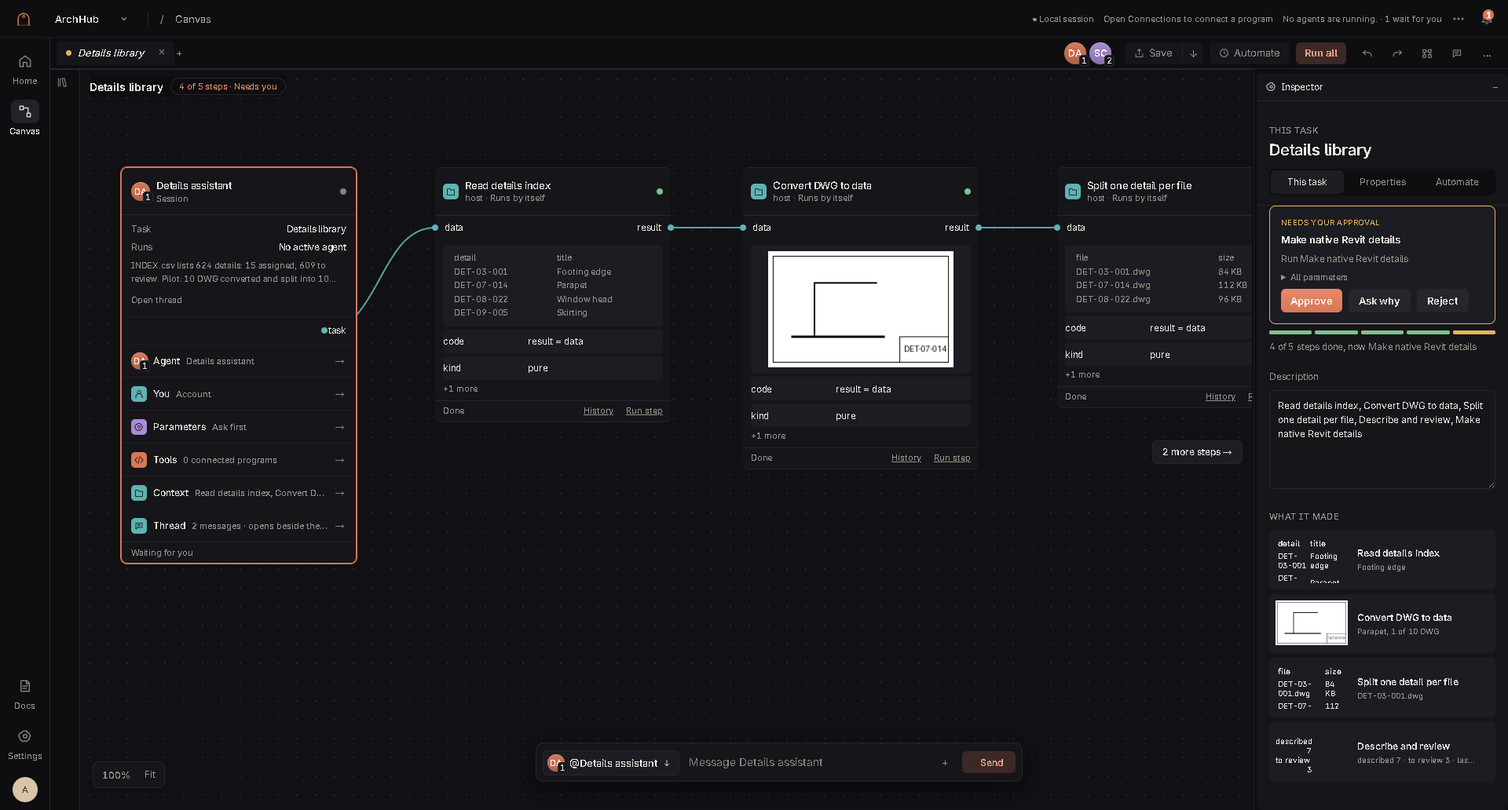
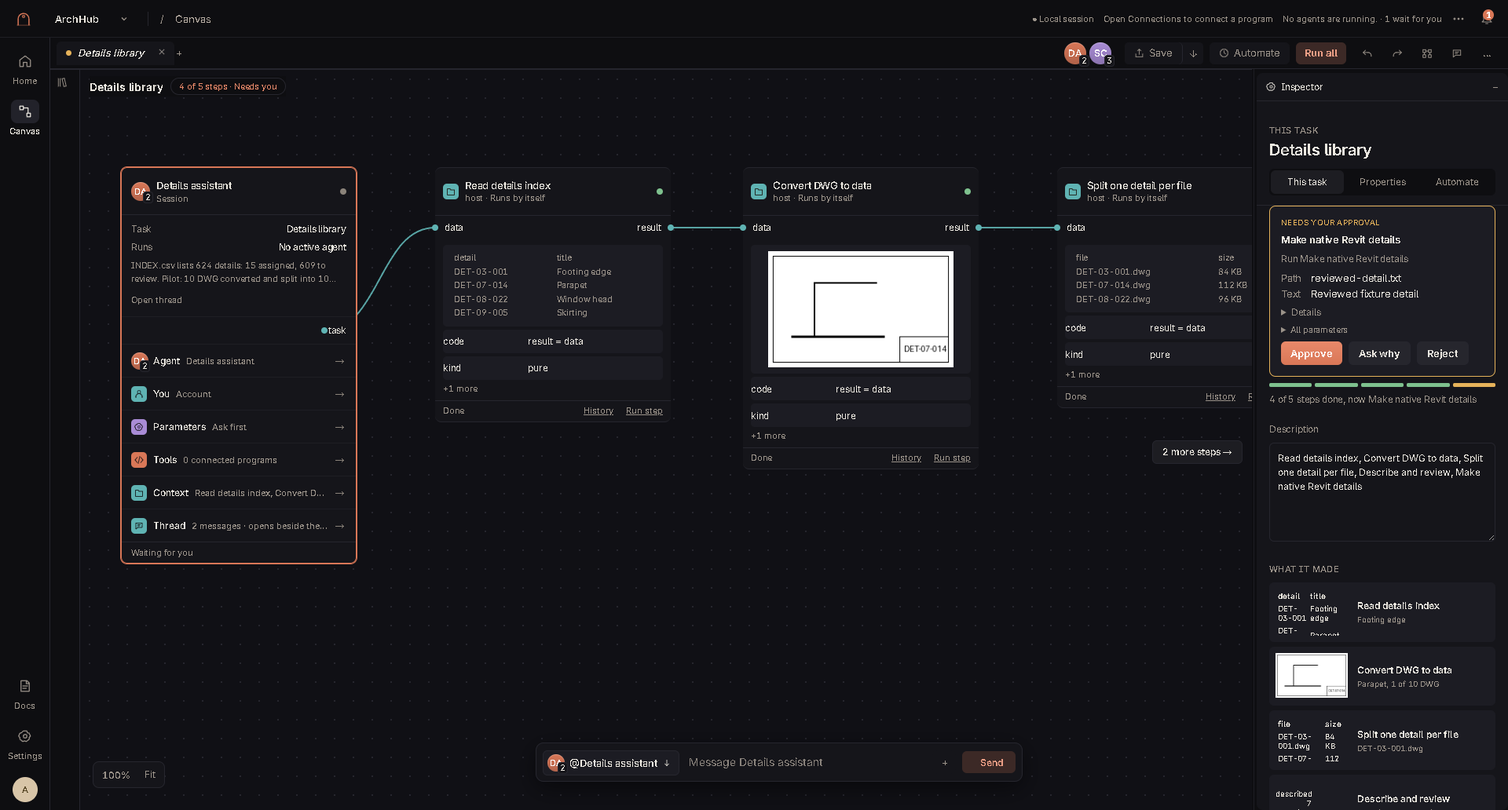
DESIGNMATCH: plan steps as a view, never written on open; Home shows live, waiting and today's work
Removes the plan-node write from the task owner (open and plan record); the Canvas
draws a recorded plan as an unsaved projection when the file has no step nodes.
Home: interrupted, stale, archived and older rows sit under one collapsed Older
heading; a row title is the work, never the agent label; the held step reads as
named rows; the thread scrolls clear of the composer.

Intent: DESIGNMATCH

diff --git a/01.APP/nodelang/studio/ds_home2.jsx b/01.APP/nodelang/studio/ds_home2.jsx
@@ -263,13 +263,20 @@
     }
     const sectionOf=row=>{
       if(row.workingNow)return 'Working now';
-      if(row.status==='ARCHIVED')return 'Older / archived';
+      if(row.status==='ARCHIVED'||row.stale||row.status==='stale'||['interrupted','unknown'].includes(row.outcome)||window.UI.taskRowReason(row)==='interrupted')return 'Older / archived';
       if(waiting.has(row.id)||row.status==='IN REVIEW')return 'Needs you';
       const date=new Date(row.updated_at||row.modified||row.updatedAt||0),today=new Date();today.setHours(0,0,0,0);
-      if(date>=today)return 'Today';
-      return date.getTime()>=today.getTime()-7*86400000?'Earlier this week':'Older / archived';
+      return date>=today?'Today':'Older / archived';
     };
     const collapsedSections=homeLayout.sections||['Older / archived'];
+    const vendorLabel=/^[^/\n]{1,40} \/ [^/\n]+ \/ /;
+    // The row names the work; an agent label is never the title.
+    const workTitle=t=>{
+      const title=String(t.title||'');
+      if(title&&!vendorLabel.test(title)&&!vendorLabel.test(String(t.description||'')))return title;
+      const text=[t.scope,(t.declarations||[])[0]?.task,...taskMessages(t).map(message=>message.text),t.runtimeAgent?.status_text].map(value=>String(value||'').split('\n')[0].trim()).find(value=>value&&!vendorLabel.test(value));
+      return text?(text.length>60?text.slice(0,59).trimEnd()+'\u2026':text):'Untitled session';
+    };
     const toggleSection=name=>saveHome({sections:collapsedSections.includes(name)?collapsedSections.filter(value=>value!==name):[...collapsedSections,name]});
     const focus = homeLayout.resume || u.task || s.focusedTask;
     const task = fileWorkspace ? tasks.find(t => t.id === u.task) : list.find(t => t.id === focus) || list.find(t=>t.homePinned) || list[0];
@@ -392,7 +399,7 @@
     };
     const taskRow = t => <div key={t.id} data-design="home1.row" className={'dx-task-row resume-row'+(task?.id===t.id?' on':'')} data-status={waiting.has(t.id)||t.status==='IN REVIEW'?'review':toneOf(t)} draggable={!t.fileOnly} onDragStart={event=>{event.dataTransfer.setData('task',t.id);event.dataTransfer.setData('text/archhub-home-row',t.id);if(t.sessionPath)event.dataTransfer.setData('session',t.sessionPath);}} onDragOver={event=>event.preventDefault()} onDrop={event=>{event.preventDefault();const id=event.dataTransfer.getData('text/archhub-home-row');if(t.fileOnly||!list.some(row=>row.id===id)||id===t.id)return;const order=list.map(row=>row.id).filter(key=>key!==id);order.splice(order.indexOf(t.id),0,id);executeAction('ui.select',()=>saveHome({order}));}}>
       <button type="button" className="resume-avatar" aria-label={ownerOf(t)?'Open agent '+ownerOf(t):'Resume '+t.title} title={ownerOf(t)||t.title} onClick={()=>executeAction('ui.select',()=>ownerOf(t)?openOwner(t):selectResume(t))}>{ownerOf(t)?<window.UI.Av id={ownerOf(t)} size={28}/>:<Icon name="canvas" size={18}/>}</button>
-      <button type="button" className="dx-task" aria-selected={task?.id===t.id} title={t.title} onClick={()=>executeAction('ui.select',()=>selectResume(t))} onDoubleClick={()=>executeAction('ui.select',()=>t.fileOnly?undefined:openTask(t))}><b>{t.title}</b><span>{waiting.has(t.id)?'Waits for you':window.UI.taskRowReason(t)||statusText(t.status)}{lastUpdate(t)?' · '+lastUpdate(t):''}</span></button>
+      <button type="button" className="dx-task" aria-selected={task?.id===t.id} title={t.title} onClick={()=>executeAction('ui.select',()=>selectResume(t))} onDoubleClick={()=>executeAction('ui.select',()=>t.fileOnly?undefined:openTask(t))}><b>{workTitle(t)}</b><span>{waiting.has(t.id)?'Waits for you':window.UI.taskRowReason(t)||statusText(t.status)}{lastUpdate(t)?' · '+lastUpdate(t):''}</span></button>
       {!t.fileOnly&&<><button type="button" className="resume-pin" aria-label={(t.homePinned?'Unpin ':'Pin ')+t.title} aria-pressed={!!t.homePinned} onClick={()=>executeAction('ui.select',()=>u.act(()=>api.setTaskSession(t.id,{homePinned:!t.homePinned})))}><Icon name="pin" size={13}/></button>
       <button type="button" className="resume-hide" aria-label={'Hide '+t.title+' from Home'} onClick={()=>executeAction('ui.select',()=>{setHomeUndo(homeLayout);return saveHome({hidden:[...homeLayout.hidden,t.id],resume:task?.id===t.id?'':homeLayout.resume});})}>×</button></>}
     </div>;
@@ -483,7 +490,7 @@
         {!fileWorkspace ? <Group id="home-context" className={'dx-home-landing dx-split resume-home'+(sessionsRail&&!sessionsPeek?' sessions-rail':'')} orientation="horizontal" onLayoutChanged={(_,meta)=>{if(meta?.isUserInteraction&&sessionsRef.current){const size=sessionsRef.current.getSize().inPixels;saveHome({collapsed:size<=57,width:size<=57?homeLayout.width:Math.max(240,Math.min(440,Math.round(size)))});}}}>
           <Column id="sessions" panelRef={sessionsRef} collapsible collapsedSize={56} minSize={240} maxSize={440} defaultSize={initialSessionsSize.current} groupResizeBehavior="preserve-pixel-size" onResize={size=>setSessionsRail(size.inPixels<=57)}>
             <aside data-design="home1.list" className="resume-sessions" data-peek={sessionsRail&&sessionsPeek||undefined} aria-label="Sessions"><header><h2>Sessions</h2><button type="button" className="dx-quiet" data-design="home1.fold" aria-label={sessionsRail&&!sessionsPeek?'Open the list':'Fold the list to avatars'} onClick={()=>executeAction('ui.select',()=>{if(window.innerWidth<1100){setSessionsPeek(!sessionsPeek);return undefined;}return saveHome({collapsed:!sessionsRail});})}>{sessionsRail?'›':'‹'}</button></header>
-              <div className="resume-session-scroll"><window.UI.SessionList list="home" rows={sessionRows} sectionOf={sectionOf} collapsedSections={collapsedSections} toggleSection={toggleSection} renderRow={row=>row.runtimeAgent?<div className="dx-task-row resume-row" key={row.id}><button type="button" className="resume-avatar" aria-label={'Open agent '+row.title} onClick={()=>executeAction('ui.select',()=>row.runtimeAgent.task?u.openTaskFile(row.runtimeAgent.task):u.go('settings/Agents'))}><window.UI.Av id={row.runtimeAgent.name} size={28}/></button><button type="button" className="dx-task" onClick={()=>executeAction('ui.select',()=>row.runtimeAgent.task?u.openTaskFile(row.runtimeAgent.task):u.go('settings/Agents'))}><b>{row.title}</b><span>{row.runtimeAgent.status_text||row.runtimeAgent.status}</span></button></div>:taskRow(row)}/></div>
+              <div className="resume-session-scroll"><window.UI.SessionList list="home" rows={sessionRows} sectionOf={sectionOf} collapsedSections={collapsedSections} toggleSection={toggleSection} renderRow={row=>row.runtimeAgent?<div className="dx-task-row resume-row" key={row.id}><button type="button" className="resume-avatar" aria-label={'Open agent '+row.title} onClick={()=>executeAction('ui.select',()=>row.runtimeAgent.task?u.openTaskFile(row.runtimeAgent.task):u.go('settings/Agents'))}><window.UI.Av id={row.runtimeAgent.name} size={28}/></button><button type="button" className="dx-task" onClick={()=>executeAction('ui.select',()=>row.runtimeAgent.task?u.openTaskFile(row.runtimeAgent.task):u.go('settings/Agents'))}><b>{workTitle(row)}</b><span>{String(row.runtimeAgent.name||'').split(' / ').at(-1)} · {row.runtimeAgent.status}</span></button></div>:taskRow(row)}/></div>
               {!!homeLayout.hidden.length&&<button type="button" className="dx-quiet" onClick={()=>executeAction('ui.select',()=>saveHome({hidden:[]}))}>+ {homeLayout.hidden.length} hidden</button>}
               {homeUndo&&<button type="button" className="dx-quiet" onClick={()=>executeAction('ui.select',()=>{const previous=homeUndo;setHomeUndo(null);return saveHome(previous);})}>Undo Home change</button>}
             </aside>
@@ -509,7 +516,7 @@
             </div>
             <Group key={layoutReady ? 'saved' : 'loading'} id="home-context" className="dx-split" orientation="horizontal" onLayoutChanged={(_, meta) => { if (meta?.isUserInteraction && inspectorRef.current) persistWidth(Math.round(inspectorRef.current.getSize().inPixels)); }}>
               <Column id="main" className="dx-col dx-task-column" minSize={320}>
-                <div className="dx-surface-body">{!u.libraryOpen && <div className="v22g-library-rail"><button type="button" aria-label="Library" onClick={event=>executeAction('ui.select',()=>u.setLibraryOpen(true),event)}><Icon name="library" size={14}/><span>Library</span></button></div>}<div className="v22g-views-frame" ref={viewsRef}>{singleCanvas&&<div className="v22g-canvas-switch" role="group" aria-label="Visible canvas"><button type="button" aria-pressed={!besideShown} onClick={()=>executeAction('ui.select',()=>setBesideShown(false))}>{task?.title}</button><button type="button" aria-pressed={besideShown} onClick={()=>executeAction('ui.select',()=>setBesideShown(true))}>{s.tasks.find(row=>row.id===beside)?.title}</button></div>}<Group className="v22g-views" orientation="horizontal">{(!singleCanvas||!besideShown)&&<Column id="task-canvas" minSize={320}><div className="v22g-canvas" data-design="canvas.stage"><window.UI.Canvas active embedded externalInspector steps={{done:resumeSteps.filter(step=>step.state.kind==='done').length,total:resumeSteps.length}} occludedWidth={threadRail&&threadPeek?380:0} controlsRef={canvasRef} onInspect={inspect} onHandoff={showCanvas} /></div></Column>}{beside&&(!singleCanvas||besideShown) && <>{!singleCanvas&&<Separator className="pane-splitter" aria-label="Resize session split" />}<Column id="beside-canvas" minSize={320}><div className="v22g-beside"><header className="spread"><button type="button" className="dx-quiet" onClick={event=>executeAction('ui.select',()=>u.openTaskFile(beside),event)}>{s.tasks.find(row=>row.id===beside)?.title || 'Task'} · Open</button><button type="button" className="dx-quiet" aria-label="Close split" onClick={event=>executeAction('ui.select',()=>u.act(()=>u.saveCanvasTabs({...u.canvasTabs,split:''})),event)}>×</button></header>{previewError ? <p role="alert">{previewError}</p> : preview ? <window.UI.Canvas key={beside} active embedded externalInspector preview={preview} onActivate={()=>u.openTaskFile(beside)} /> : <p role="status">Loading task…</p>}</div></Column></>}{face === 'split' && <><Separator className="pane-splitter" aria-label="Resize thread" /><Column id="task-thread" panelRef={threadRef} collapsible collapsedSize={48} onResize={size=>{setThreadRail(size.inPixels<=49);setThreadWidth(size.inPixels);}} defaultSize="44%" minSize={300}>{threadRail&&<button type="button" className="canvas-pane-rail" aria-label="Open Thread" onClick={()=>executeAction("ui.select",()=>setThreadPeek(!threadPeek))}>Thread</button>}<div hidden={threadRail&&!threadPeek} data-thread-peek={threadRail&&threadPeek||undefined} className="dx-main v22g-thread" data-dx="main" data-home-face="split">
+                <div className="dx-surface-body">{!u.libraryOpen && <div className="v22g-library-rail"><button type="button" aria-label="Library" onClick={event=>executeAction('ui.select',()=>u.setLibraryOpen(true),event)}><Icon name="library" size={14}/><span>Library</span></button></div>}<div className="v22g-views-frame" ref={viewsRef}>{singleCanvas&&<div className="v22g-canvas-switch" role="group" aria-label="Visible canvas"><button type="button" aria-pressed={!besideShown} onClick={()=>executeAction('ui.select',()=>setBesideShown(false))}>{task?.title}</button><button type="button" aria-pressed={besideShown} onClick={()=>executeAction('ui.select',()=>setBesideShown(true))}>{s.tasks.find(row=>row.id===beside)?.title}</button></div>}<Group className="v22g-views" orientation="horizontal">{(!singleCanvas||!besideShown)&&<Column id="task-canvas" minSize={320}><div className="v22g-canvas" data-design="canvas.stage"><window.UI.Canvas active embedded externalInspector steps={{done:resumeSteps.filter(step=>step.state.kind==='done').length,total:resumeSteps.length}} planned={work.length?null:resumeSteps.map(step=>({title:step.title,kind:step.state.kind,label:step.state.label}))} occludedWidth={threadRail&&threadPeek?380:0} controlsRef={canvasRef} onInspect={inspect} onHandoff={showCanvas} /></div></Column>}{beside&&(!singleCanvas||besideShown) && <>{!singleCanvas&&<Separator className="pane-splitter" aria-label="Resize session split" />}<Column id="beside-canvas" minSize={320}><div className="v22g-beside"><header className="spread"><button type="button" className="dx-quiet" onClick={event=>executeAction('ui.select',()=>u.openTaskFile(beside),event)}>{s.tasks.find(row=>row.id===beside)?.title || 'Task'} · Open</button><button type="button" className="dx-quiet" aria-label="Close split" onClick={event=>executeAction('ui.select',()=>u.act(()=>u.saveCanvasTabs({...u.canvasTabs,split:''})),event)}>×</button></header>{previewError ? <p role="alert">{previewError}</p> : preview ? <window.UI.Canvas key={beside} active embedded externalInspector preview={preview} onActivate={()=>u.openTaskFile(beside)} /> : <p role="status">Loading task…</p>}</div></Column></>}{face === 'split' && <><Separator className="pane-splitter" aria-label="Resize thread" /><Column id="task-thread" panelRef={threadRef} collapsible collapsedSize={48} onResize={size=>{setThreadRail(size.inPixels<=49);setThreadWidth(size.inPixels);}} defaultSize="44%" minSize={300}>{threadRail&&<button type="button" className="canvas-pane-rail" aria-label="Open Thread" onClick={()=>executeAction("ui.select",()=>setThreadPeek(!threadPeek))}>Thread</button>}<div hidden={threadRail&&!threadPeek} data-thread-peek={threadRail&&threadPeek||undefined} className="dx-main v22g-thread" data-dx="main" data-home-face="split">
                   <div className="dx-thread-layout"><aside className="dx-threads" aria-label="Threads"><header><h2>Threads</h2><button type="button" className="dx-quiet" onClick={() => executeAction('ui.select', () => u.go('home'))}>All tasks</button></header>{tasks.map(t => <button type="button" className="dx-thread-row" key={t.id} aria-selected={t.id === task?.id} onClick={() => executeAction('ui.select', () => u.openTaskFile(t.id, 'workshop'))}><b>{t.title}</b>{ownerOf(t) ? <span>You → {ownerOf(t)}</span> : null}<span>{window.UI.taskRowReason(t) || statusText(t.status)}{reasonOf(t) ? ' · ' + reasonOf(t) : ''}</span></button>)}</aside>
                   <div className="dx-work-scroll">
                   <div className="dx-mid" data-plan={plan.length ? 'shown' : 'hidden'}>

diff --git a/01.APP/nodelang/studio/ds_screens.jsx b/01.APP/nodelang/studio/ds_screens.jsx
@@ -725,6 +725,7 @@
     onHandoff,
     controlsRef,
     steps,
+    planned,
     occludedWidth = 0
   }) {
     const live = useData(), s = preview ? {...live, graph: preview, sessionBreadcrumbs: []} : live,
@@ -1093,7 +1094,7 @@
         }
       }
       const members = [...childMembers, ...chips];
-      if(n.type==='note'&&!n.params?.plan_step&&!n.children?.length&&!n.frameMembers)return <div className="v22g-note node-header" style={{background:n.color||undefined}} onDoubleClick={()=>u.show('Note',{id:n.id,text:n.params.text||''})}>{n.params.text||n.title}</div>;
+      if(n.type==='note'&&!n.children?.length&&!n.frameMembers)return <div className="v22g-note node-header" style={{background:n.color||undefined}} onDoubleClick={()=>u.show('Note',{id:n.id,text:n.params.text||''})}>{n.params.text||n.title}</div>;
       return <FlowCard onOpen={()=>openNode(n)} n={n} s={s} u={u} selected={isSelected} refusal={rejected?.to.id === n.id ? rejected : null} onConvert={insertConverter} members={members} socket={(p, side = 'in') => socket(n, p, side)}
         onMember={m=>{if (s.graph.nodes.some(row => row.id === m.id)) {setParent(n.id);setSelected([m.id]);} else {setParent(null);u.act(async()=>{await api.selectGraph(n.id);setSelected([m.id]);});}}}
         onDetach={(m, event) => { const under = document.elementFromPoint(event.clientX, event.clientY); if (under && under.closest && under.closest('[data-graph-node="' + n.id + '"]')) return; u.act(() => api.detachMember(n.id, {id: m.id, title: m.title, agent: m.agent || m.id}, toFlow(event))); }}
@@ -1279,7 +1280,7 @@
        onEdgeClick={(e, edge) => { if (edge.id !== 'rejected') { setWireId(edge.id); if(!e.shiftKey&&!e.ctrlKey)setSelected([]); onInspect?.({nodeId:null,wireId:edge.id}); } }}
        onPaneClick={() => { if(preview){onActivate?.();return;} setSelected([]); setWireId(null); setSelectedWires([]); setRejected(null); }}
        selectionOnDrag panOnDrag={[1]} panActivationKeyCode="Space" multiSelectionKeyCode={['Shift','Control','Meta']} selectionKeyCode={null} deleteKeyCode={null}
-       zoomOnDoubleClick={false} connectionLineStyle={{stroke: A.cyan, strokeWidth: 2}} proOptions={{hideAttribution: true}} />
+       zoomOnDoubleClick={false} connectionLineStyle={{stroke: A.cyan, strokeWidth: 2}} proOptions={{hideAttribution: true}}>{planned?.length>0 && sessionNode && RF.ViewportPortal && <RF.ViewportPortal><div className="v48-plan-steps" data-plan-projection="" style={{position:'absolute',left:Math.round((sessionNode.x+396)/8)*8,top:Math.round(sessionNode.y/8)*8}}>{planned.map((step,index)=><article key={index} data-plan-step={index+1} data-state={step.kind}><b>{step.title}</b><span>{step.label}</span></article>)}</div></RF.ViewportPortal>}</RF.ReactFlow>
     </CanvasContext.Provider>
     {embedded && <div className="v48-canvas-title" data-design="canvas.title"><b>{s.graph.name}</b><span>{steps?steps.done:visible.filter(n=>!n.fixed&&n.status==='Done').length} of {steps?steps.total:visible.filter(n=>!n.fixed).length} steps · {visible.some(n=>/approval|waiting/i.test(n.status))?'Needs you':visible.some(n=>n.status==='Running')?'Working':visible.some(n=>/fail|error/i.test(n.status))?'Failed':'Idle'}</span></div>}
     {visible.some(n=>!n.fixed && n.x*zoom+pan.x>(area.current?.clientWidth||paneWidth)-32) && <button type="button" className="v48-more-steps" data-design="canvas.more" onClick={event=>executeAction('projects.controls.activate',{handler:()=>{const next=visible.filter(n=>!n.fixed&&n.x*zoom+pan.x>(area.current?.clientWidth||paneWidth)-32).sort((a,b)=>a.x-b.x)[0];updateView({zoom,pan:{x:40-next.x*zoom,y:pan.y}});}},event)}>{visible.filter(n=>!n.fixed&&n.x*zoom+pan.x>(area.current?.clientWidth||paneWidth)-32).length} more steps →</button>}

diff --git a/01.APP/nodelang/studio/ui.jsx b/01.APP/nodelang/studio/ui.jsx
@@ -14,6 +14,14 @@
   const useApp = () => React.useContext(Ctx);
   // F178.2: no dependency label until the task owner supplies a real blocked_by field.
   const blockedDependencyReason = () => '';
+  // Named parameters of a held run as readable rows: a file shows its name, never its folder path.
+  const approvalRows = text => {
+    let held = null;
+    try { held = JSON.parse(text); } catch (error) { console.warn('Approval text is not structured; shown as written: ' + error.message); return null; }
+    const named = held && typeof held === 'object' && held.parameters && typeof held.parameters === 'object' && !Array.isArray(held.parameters) ? Object.entries(held.parameters) : [];
+    const leaf = value => String(typeof value === 'object' && value !== null ? JSON.stringify(value) : value).replace(/(?:[A-Za-z]:[\\/]|\\\\)[^\n"]+/g, path => path.trim().split(/[\\/]/).filter(Boolean).pop() || path);
+    return named.length ? named.slice(0, 8).map(([name, value]) => [name.replace(/_/g, ' '), leaf(value)]) : null;
+  };
   const taskRowReason = task => {
     const state = String(task.rowState || '').toLowerCase().replace(/_/g, ' ');
     if (state === 'interrupted' || task.outcome === 'interrupted') return 'interrupted';
@@ -297,7 +305,7 @@
           <Chip c={c.status === 'pending' ? A.warn : c.status === 'failed' ? A.err : A.ok}>{c.status === 'pending' ? 'Needs your OK' : word}</Chip>
         </div>
         {c.summary && <p style={{fontSize: 13, margin: 0, color: A.inkSoft, lineHeight: c.approvalKind === 'canvas' ? 1.45 : undefined}}>{c.summary}</p>}
-        {c.text ? <div><div style={{fontSize: 11, color: A.inkSoft, marginBottom: 4}}>{c.textLabel || 'Text'}</div><pre style={{margin: 0, whiteSpace: 'pre-wrap', font: '13px/1.45 Inter, sans-serif', background: A.bgSoft, border: '1px solid ' + A.line, borderRadius: A.rad.md, padding: '10px 12px'}}>{c.text}</pre></div> : null}
+        {c.text && compact && approvalRows(c.text) ? <><dl className="approval-rows">{approvalRows(c.text).map(([name,value])=><React.Fragment key={name}><dt>{name}</dt><dd>{value}</dd></React.Fragment>)}</dl><details className="approval-details"><summary>Details</summary><pre>{c.text}</pre></details></> : c.text ? <div><div style={{fontSize: 11, color: A.inkSoft, marginBottom: 4}}>{c.textLabel || 'Text'}</div><pre style={{margin: 0, whiteSpace: 'pre-wrap', font: '13px/1.45 Inter, sans-serif', background: A.bgSoft, border: '1px solid ' + A.line, borderRadius: A.rad.md, padding: '10px 12px'}}>{c.text}</pre></div> : null}
         {decisionError && <p role="alert">{decisionError}</p>}
         {c.status === 'pending' ? <div className="flex" style={{gap: 8}}><Btn p sm={compact} disabled={busy} onClick={event => executeAction("sharedUI.ApproveOnce.13", {decide}, event)}>Approve</Btn>{c.approvalKind==='canvas' && <Btn sm disabled={busy} onClick={event=>executeAction('projects.controls.activate',{handler:()=>{const target=c.taskId||c.work||u.task,key=JSON.stringify(['task-file',target]);u.setComposerDraft(current=>({...current,[key]:{text:'Why does '+c.title+' need approval?',revision:(current[key]?.revision||0)+1}}));u.close();return u.openTaskFile(target,'split');}},event)}>Ask why</Btn>}<Btn sm={compact} disabled={busy} onClick={event => executeAction("sharedUI.Decline.15", {decide}, event)}>{c.approvalKind==='canvas'?'Reject':'Deny'}</Btn></div> : <p style={{margin: 0, color: c.status === 'approved' ? A.ok : c.status === 'failed' ? A.err : A.inkSoft}}>{word}</p>}
       </Card>;

diff --git a/01.APP/nodelang/studio/ds_library.jsx b/01.APP/nodelang/studio/ds_library.jsx
@@ -25,7 +25,7 @@
     const status = request==='loaded'&&!rows.length?'empty':request;
     const render=row=>renderRow?renderRow(row):<button type="button" className="listbutton" key={row.path} onClick={()=>executeAction('ui.select',async()=>{const opened=await u.act(()=>api.openSession(row.path));if(opened&&!opened.cancelled)onOpen?.();})}>{row.title||row.name}</button>;
     const sections=['Needs you','Working now','Today','Earlier this week','Older / archived'];
-    const content=sectionOf?sections.map(name=>{const items=rows.filter(row=>sectionOf(row)===name);return items.length?<section className="home-session-section" key={name} data-home-section={name}><button type="button" className="home-section-heading" aria-expanded={!collapsedSections.includes(name)} onClick={()=>executeAction('ui.select',()=>toggleSection(name))}><span>{collapsedSections.includes(name)?'›':'⌄'} {name}</span><b>{items.length}</b></button>{!collapsedSections.includes(name)&&items.map(render)}</section>:null;}):rows.map(render);
+    const content=sectionOf?sections.map(name=>{const items=rows.filter(row=>sectionOf(row)===name);return items.length?<section className="home-session-section" key={name} data-home-section={name}><button type="button" className="home-section-heading" aria-expanded={!collapsedSections.includes(name)} onClick={()=>executeAction('ui.select',()=>toggleSection(name))}><span>{collapsedSections.includes(name)?'›':'⌄'} {name==='Older / archived'?'Older':name}</span><b>{items.length}</b></button>{!collapsedSections.includes(name)&&items.map(render)}</section>:null;}):rows.map(render);
     return <>{status==='waiting'&&<p role="status">Loading sessions…</p>}{status==='error'&&<p role="alert">{failure}<button type="button" onClick={()=>executeAction('ui.select',()=>setAttempt(attempt+1))}>Retry</button></p>}{(status==='loaded'||status==='empty')&&<><div className="shelf-tabs" role="group" aria-label="Saved document filter">{[['all','All'],['workflow','Workflows'],['agent-session','Agent sessions']].map(([value,label])=><button type="button" className="tab-button" key={value} aria-pressed={kind===value} onClick={()=>executeAction('ui.select',()=>choose(value))}>{label}</button>)}</div>{status==='loaded'&&<div className="session-section-list">{content}</div>}{status==='empty'&&<p>No sessions found.</p>}</>}</>;
   }
   window.UI.SessionList = SessionList;

diff --git a/01.APP/nodelang/studio/style.css b/01.APP/nodelang/studio/style.css
@@ -1193,3 +1193,6 @@ body{min-width:900px;overflow-x:auto}.app-window{min-width:900px}.app-window>div
 .resume-row .dx-task b{white-space:normal;display:-webkit-box;-webkit-box-orient:vertical;-webkit-line-clamp:2;overflow:hidden;overflow-wrap:anywhere;text-overflow:clip}
 .resume-steps{display:flex;flex-wrap:wrap;align-items:flex-start}.resume-step{flex:0 1 auto;min-width:160px;max-width:100%}.resume-step[data-made]{flex:1 1 260px;max-width:520px}.resume-step:not([data-made]){padding:10px 12px;gap:4px}.resume-made{min-height:0;max-height:none;align-content:start}
 @media(min-height:880px){.resume-made>*{zoom:1.35}}@media(min-height:1000px){.resume-made>*{zoom:1.6}}
+.resume-main{padding-bottom:104px}.resume-task{padding-bottom:16px}
+.approval-rows{display:grid;grid-template-columns:auto minmax(0,1fr);gap:4px 12px;margin:0;font-size:calc(13px * var(--text-scale,1))}.approval-rows dt{color:var(--color-ink-soft);text-transform:capitalize}.approval-rows dd{margin:0;overflow-wrap:anywhere}.approval-details summary{font-size:12px;color:var(--color-ink-soft);cursor:pointer}.approval-details pre{margin:6px 0 0;white-space:pre-wrap;overflow-wrap:anywhere;font:11px/1.5 var(--type-family-mono)}
+.v48-plan-steps{display:flex;gap:96px;pointer-events:none}.v48-plan-steps>article{position:relative;width:300px;box-sizing:border-box;display:grid;gap:4px;padding:12px;border:1px dashed var(--color-line);border-radius:10px;background:var(--color-bg-panel);color:var(--color-ink)}.v48-plan-steps>article b{font-size:13px;overflow-wrap:anywhere}.v48-plan-steps>article span{font-size:11px;color:var(--color-ink-soft)}.v48-plan-steps>article+article::before{content:'';position:absolute;right:100%;top:22px;width:96px;border-top:2px solid var(--color-line)}

diff --git a/01.APP/nodelang/workshop_tasks.py b/01.APP/nodelang/workshop_tasks.py
@@ -868,9 +868,6 @@ def open_session(history, task, path=None, *, select=True, zoom=1):
         raise ValueError("No such Workshop task")
     bound = row.get("session_path")
     if bound:
-        if _plan_unplaced(read_document(bound)):
-            from . import canvas_documents
-            canvas_documents.edit(bound, 'You', 'place plan steps', lambda document: _place_plan(document) or [], solve_changed=False)
         return _show(task, bound, read_document(bound), select=select)
     if path is not None:
         target = str(local_path(path))
@@ -1029,28 +1026,6 @@ def _apply_nodes(document, specs):
                 raise ValueError("Node result error must be short text")
 
 
-_FIXED_STEP_IDS = {"start", "fixed-agent", "fixed-you", "fixed-workshop"}
-
-
-def _plan_unplaced(document):
-    """A recorded plan whose canvas holds no step yet."""
-    plan = ((document.get("properties") or {}).get("taskContext") or {}).get("plan")
-    return bool(isinstance(plan, list) and any(isinstance(step, str) and step for step in plan) and not any(
-        not node.get("fixed") and node["id"] not in _FIXED_STEP_IDS and node.get("type") != "thing.session"
-        for node in document["nodes"]))
-
-
-def _place_plan(document):
-    """Each plan step becomes one node in the same file; a canvas that already has steps is left alone."""
-    if not _plan_unplaced(document):
-        return
-    plan = [step for step in document["properties"]["taskContext"]["plan"] if isinstance(step, str) and step][:40]
-    _apply_nodes(document, [{"id": "plan-%d" % (index + 1), "type": "note", "title": step[:200], "params": {"plan_step": True}}
-                            for index, step in enumerate(plan)])
-    for index in range(len(plan)):
-        next(node for node in document["nodes"] if node["id"] == "plan-%d" % (index + 1))["position"] = {"x": 80 + index * 384, "y": 80}
-
-
 def _apply_parameters(document, rows):
     if type(rows) is not list or len(rows) > 40:
         raise ValueError("Parameters must name nodes")
@@ -1118,8 +1093,6 @@ def update_session(history, task, values):
         document["properties"] = props
         if "nodes" in values:
             _apply_nodes(document, values["nodes"])
-        if "plan" in values:
-            _place_plan(document)
         if "parameters" in values:
             _apply_parameters(document, values["parameters"])
         if "messages" in values:

diff --git a/05.EVIDENCE/designmatch/previews/render.py b/05.EVIDENCE/designmatch/previews/render.py
@@ -29,7 +29,17 @@ client = _Studio(server)
 try:
     planned = client.workshop('createTask', 'Check every detail against office rules')
     client.workshop('setTaskSession', planned['taskId'], {'agents': ['Sheet checker'], 'plan': ['Read details index', 'Check each detail']})
-    assert [n['id'] for n in client.workshop('openTaskGraph', planned['taskId'])['workflow'] if n['id'].startswith('plan-')] == ['plan-1', 'plan-2']
+    planned_path = Path(client.workshop('openTaskGraph', planned['taskId'])['path'])
+    planned_bytes = planned_path.read_bytes()
+    labelled = client.workshop('createTask', 'Claude Code / Registered studio / session-3f9a2c')
+    client.workshop('setTaskSession', labelled['taskId'], {'scope': 'Check the door schedule against the standard', 'agents': ['Claude Code / Registered studio / session-3f9a2c']})
+    old = client.workshop('createTask', 'Last week model audit')
+    broken = client.workshop('createTask', 'Interrupted export run')
+    from nodelang import workshop_mailbox
+    from datetime import datetime, timedelta, timezone
+    with workshop_mailbox.application_history() as history:
+        history._db.execute('UPDATE workshop_tasks SET updated_at=? WHERE id=?', ((datetime.now(timezone.utc) - timedelta(days=4)).isoformat(), old['taskId']))
+        history._db.execute("UPDATE workshop_tasks SET outcome='interrupted' WHERE id=?", (broken['taskId'],))
     task = client.workshop('createTask', 'Details library')
     titles = ['Read details index', 'Convert DWG to data', 'Split one detail per file', 'Describe and review', 'Make native Revit details']
     client.workshop('setTaskSession', task['taskId'], {
@@ -60,6 +70,8 @@ try:
     client.files('save', path=opened['path'], document=doc)
     result = subprocess.run(['node', str(Path(__file__).with_suffix('.cjs'))], input=json.dumps({'url': server.public_url, 'cookie': server._cookie_token, 'task': task['taskId'], 'planned': planned['taskId']}), text=True, cwd=root)
     assert result.returncode == 0
+    # Recorded, not asserted: the first Canvas open auto-arranges through api.arrangeGraph(true), which saves the file (present since fe371217).
+    print('FILE BYTES AFTER CANVAS OPEN:', 'unchanged' if planned_path.read_bytes() == planned_bytes else 'REWRITTEN by the first-open auto-arrange', flush=True)
 finally:
     client.close()
     server.close()

diff --git a/02.TESTS/tests/test_designbuild.py b/02.TESTS/tests/test_designbuild.py
@@ -205,16 +205,28 @@ def test_home_section_collapse_uses_settings_owner(tmp_path):
     assert settings.path.read_bytes() == before
 
 
-def test_plan_steps_are_placed_as_canvas_nodes(tmp_path, monkeypatch):
-    """A recorded plan with an empty canvas becomes step nodes in the same file; a canvas with steps is left alone."""
+def test_opening_a_planned_session_never_writes_its_file(tmp_path, monkeypatch):
+    """A file with a plan and no step nodes keeps its bytes when it is opened; the plan is drawn as a view only."""
+    import time
     _isolate(monkeypatch, tmp_path / 'desk')
-    from nodelang import workshop_tasks
-    from nodelang.session_files import new_document
-    document = new_document('Planned')
-    before = len(document['nodes'])
-    document['properties'] = {'taskContext': {'plan': ['Read details index', 'Check each detail']}}
-    workshop_tasks._place_plan(document)
-    placed = document['nodes'][before:]
-    assert [(node['id'], node['type'], node['title']) for node in placed] == [('plan-1', 'note', 'Read details index'), ('plan-2', 'note', 'Check each detail')]
-    workshop_tasks._place_plan(document)
-    assert len(document['nodes']) == before + 2
+    from nodelang.nograph_server import NoGraphServer
+    monkeypatch.setattr(NoGraphServer, "_probe_hosts", staticmethod(lambda: []))
+    state = tmp_path / 'desk' / 'LOCALAPPDATA' / 'ArchHub'
+    state.mkdir()
+    monkeypatch.setenv("ARCHHUB_TEST_STATE_DIR", str(state))
+    server = NoGraphServer(state).start()
+    client = _Studio(server)
+    try:
+        task = client.workshop('createTask', 'Planned only')
+        view = client.workshop('setTaskSession', task['taskId'], {'plan': ['Read details index', 'Check each detail']})
+        path = Path(view['path'])
+        before, stamp = path.read_bytes(), path.stat().st_mtime_ns
+        opened = client.workshop('openTaskGraph', task['taskId'])
+        assert opened['plan'] == ['Read details index', 'Check each detail']
+        assert not [node for node in opened['workflow'] if node['id'].startswith('plan-')]
+        assert path.read_bytes() == before and path.stat().st_mtime_ns == stamp
+        time.sleep(5)
+        assert path.read_bytes() == before and path.stat().st_mtime_ns == stamp
+    finally:
+        client.close()
+        server.close()

diff --git a/05.EVIDENCE/designmatch/previews/README.md b/05.EVIDENCE/designmatch/previews/README.md
@@ -7,13 +7,16 @@ render.py seeds a disposable profile through the real task and file owners: one 
 Pairs (frozen v48 left, this worktree's compiled Studio right): `home-pair-*.png` and `canvas-pair-*.png` at 1920x1032, 1366x768 and 1009x940. `canvas-planned-app-1920x1032.png` shows the plan-only session.
 
 Asserted by render.cjs on the rendered app:
-- Home cards for steps with output hold a table, an image or text from the step's own result, never an empty box; the held step carries Approve / Ask why / Reject and no preview.
-- The Send label fits inside its one button together with its icon.
-- No number is drawn over the avatar initials in session rows.
-- A name that fits two lines is shown on two lines.
-- The plan-only session has nodes plan-1 and plan-2 on its canvas; the title pill and the Inspector both read "0 of 2 steps".
+- Home cards for steps with output hold a table, an image or text from the step's own result, never an empty box.
+- The held step carries Approve / Ask why / Reject and reads as named rows; outside its Details disclosure it has no braces and no folder path.
+- The Send label fits inside its one button together with its icon; no number is drawn over avatar initials; a name that fits two lines is shown on two lines.
+- The last thread line scrolls clear of the floating composer.
+- The open list has no row for the four-day-old session or the interrupted one; both sit under one collapsed "Older" heading with count 2; no row title is an agent label (the labelled session shows its scope).
+- The plan-only session shows its two steps left to right as a view projection (no graph node, no button, state "Planned"); after 5 s the session is not dirty; the title pill and the Inspector both read "0 of 2 steps".
 - On the five-step session the pill and the Inspector read the same count.
 
-One preview component (`ResultPreview` in ds_screens.jsx) draws Home cards, Canvas nodes and the Inspector list.
+Open finding, not fixed here: render.py prints that the plan-only file is REWRITTEN after its first Canvas open. The owner open route does not write (test_opening_a_planned_session_never_writes_its_file); the write comes from the Canvas first-open auto-arrange, api.arrangeGraph(true) in ds_screens.jsx, present since fe371217.
 
-Remaining differences from the design: previews draw the step's real result (table, text, stored thumbnail), not the reference's CAD sheet tiles or file icons; the approval card shows the run's parameters instead of the design's To / Attached rows; plan steps are placed as note-type nodes and show a "plan step" switch; project subgroups inside sections (item D) were not built; spacing is approximate. No push, install or release; installed behaviour is not claimed.
+One preview component (ResultPreview in ds_screens.jsx) draws Home cards, Canvas nodes and the Inspector list.
+
+Remaining differences from the design: previews draw the step's real result, not the reference's CAD sheet tiles or file icons; the approval rows are the run's named parameters, with no undo row because the approval record carries no such field; projected plan steps are drawn cards joined by a line, not graph nodes with wires, and are not written when a plan is recorded; project subgroups were not built; spacing is approximate. No push, install or release; installed behaviour is not claimed.
